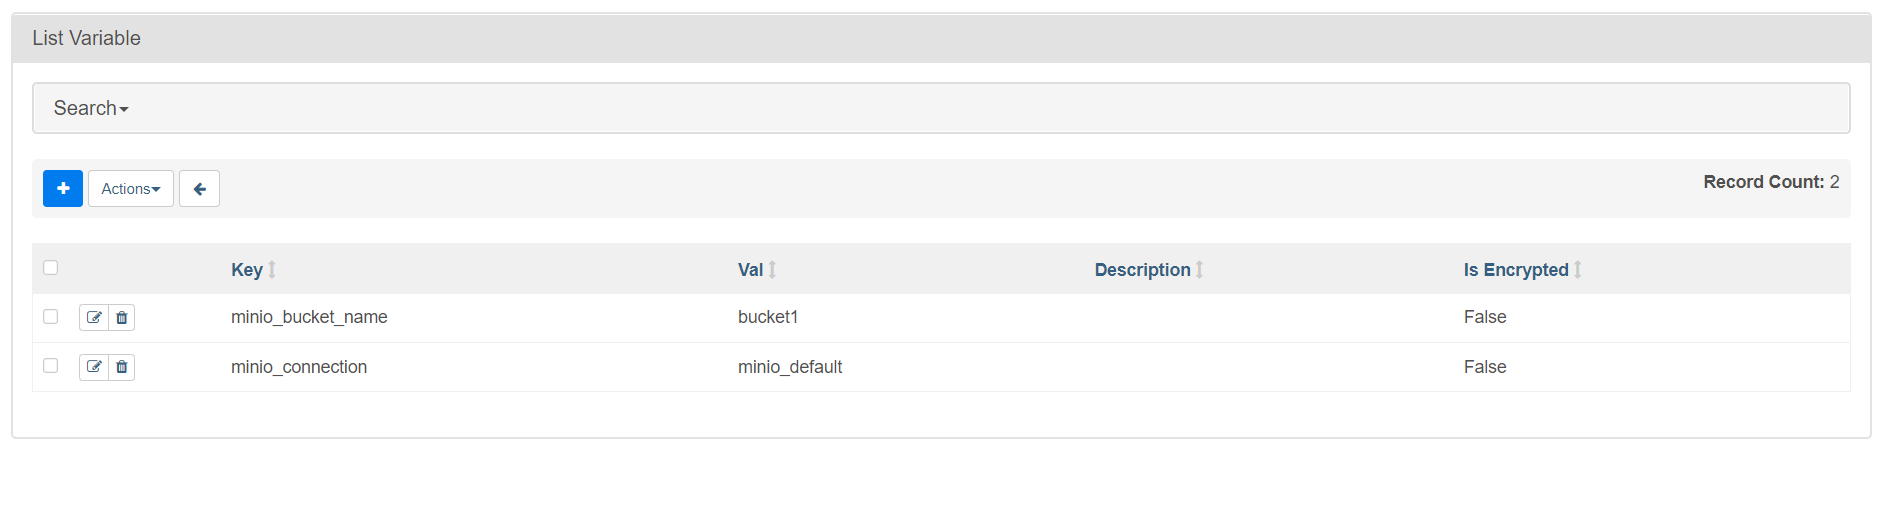
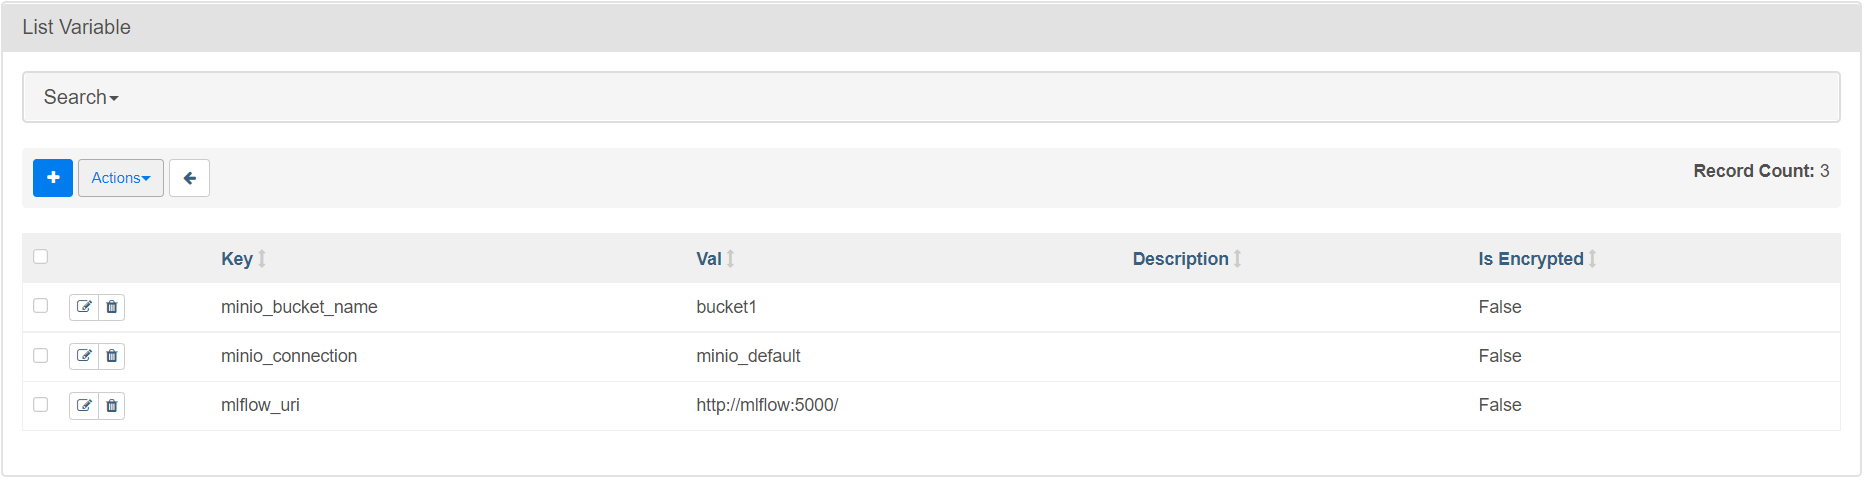
Добавлен модуль MlFlow для сброса в него метрик и артефактов.

diff --git a/dags/tasks/Sender.py b/dags/tasks/Sender.py
@@ -1,0 +1,47 @@
+import pandas as pd
+import os
+import mlflow
+from pandas import DataFrame
+
+from models.etl_model import ETL_Model
+from airflow.models import Variable
+from airflow.models import Connection
+
+
+# Создаём переменные окружения для подключения к Minio
+
+def create_endpoints():
+    connection = Connection().get_connection_from_secrets(Variable.get("minio_connection"))
+    os.environ['MLFLOW_S3_ENDPOINT_URL'] = f'http://{connection.host}:{connection.port}/'
+    os.environ['AWS_ACCESS_KEY_ID'] = connection.login
+    os.environ['AWS_SECRET_ACCESS_KEY'] = connection.password
+
+
+# Осуществляем оценку корректности обработки
+
+def make_assessment(data_frame: DataFrame, model: ETL_Model):
+    prediction = model.predict(None, data_frame)
+    return "SUCCESS" if prediction else "FILED"
+
+
+# Главный метод для осуществления отправки всех необходимых данных в MlFlow
+
+def send_metrics_to_mlflow():
+    create_endpoints()
+
+    model_name = "ETL_Model"
+
+    df = pd.read_csv("output.csv", delimiter=';')
+
+    mlflow_uri = Variable.get("mlflow_uri")
+    mlflow.set_tracking_uri(mlflow_uri)
+    mlflow.set_experiment("FIRST_ETL")
+    model = ETL_Model()
+
+    with mlflow.start_run():
+        mlflow.set_tag("etl", "My_First_ETL_Process")
+        mlflow.log_param('model_name', model_name)
+        mlflow.log_param("processing_csv_file", make_assessment(df, model))
+        mlflow.log_metric("total_rows", df.shape[0])
+        mlflow.log_artifact("output.csv")
+        mlflow.pyfunc.log_model(model_name, python_model=model)

diff --git a/dags/tasks/Extractor.py b/dags/tasks/Extractor.py
@@ -1,7 +1,9 @@
 from airflow.models import Variable
 from airflow.models import Connection
 from minio import Minio
-
+import mlflow
+from datetime import datetime
+from mlflow.pyfunc import PythonModel
 
 # Операция извлечения данных
 def extract_data():
@@ -16,3 +18,20 @@ def extract_data():
     )
     # Выгружаем оттуда объект
     client.fget_object(Variable.get("minio_bucket_name"), "input.csv", "input.csv")
+
+    # mlflow_uri = "http://mlflow:5000/"
+    # mlflow.set_tracking_uri(mlflow_uri)
+    # expname = "My_ETL_DAG"
+    #
+    #
+    #
+    # try:
+    #     mlflow.create_experiment(expname)
+    # except:
+    #     pass
+    # finally:
+    #     mlflow.set_experiment(expname)
+    #     mlflow.log_param("Start_Time", datetime.today())
+
+
+

diff --git a/dags/ETL_Dag.py b/dags/ETL_Dag.py
@@ -5,6 +5,8 @@ from airflow.utils.dates import days_ago
 from tasks.Extractor import extract_data
 from tasks.Transformer import transform_data
 from tasks.Loader import load_data
+from tasks.Sender import send_metrics_to_mlflow
+
 
 args = {
     'owner': 'User',
@@ -38,6 +40,12 @@ with DAG(
         dag=etl_dag,
         task_id='load'
     )
+    # Закрепляем операцию отправки метрик в MlFlow в etl_dag
+    send_metric = PythonOperator(
+        python_callable=send_metrics_to_mlflow,
+        dag=etl_dag,
+        task_id='send'
+    )
 
 # Строим пайплайн для создания полноценного etl процесса в нашем DAG
-extract >> transform >> load
+extract >> transform >> load >> send_metric

diff --git a/dags/models/etl_model.py b/dags/models/etl_model.py
@@ -1,0 +1,14 @@
+from mlflow.pyfunc import PythonModel
+import pandas as pd
+
+
+class ETL_Model(PythonModel):
+    # Данный метод вычитывает csv файл, который был до обработки.
+    # После чего сравнивает его по количеству строк с файлом после обработки.
+
+    def predict(self, context, model_input) -> bool:
+        old_df = pd.read_csv("input.csv", delimiter=';', header=None)
+        old_df.columns = ['c1', 'c2', 'c3', 'c4', 'c5', 'c6', 'c7', 'c8', 'c9', 'c10', 'c11']
+        old_df_shape = old_df.dropna(subset=['c1']).shape
+
+        return model_input.shape == old_df_shape

diff --git a/dags/tasks/Loader.py b/dags/tasks/Loader.py
@@ -1,7 +1,8 @@
 from airflow.models import Variable
 from airflow.models import Connection
 from minio import Minio
-
+import mlflow
+from datetime import datetime
 
 # Операция загрузки обработанных данных
 def load_data():
@@ -21,3 +22,11 @@ def load_data():
         file_path="./output.csv",
         content_type='application/csv',
     )
+    # mlflow_uri = "http://mlflow:5000/"
+    # mlflow.set_tracking_uri(mlflow_uri)
+    # expname = "My_ETL_DAG"
+    # mlflow.set_experiment(expname)
+    # mlflow.log_param("Finish_Time", datetime.today())
+    # mlflow.log_artifact("output.csv",artifact_path="s3://mlflow/")
+
+    

diff --git a/README.md b/README.md
@@ -1,16 +1,27 @@
 # Структура
 
 + dags - Папка связанная с контейнером при помощи volume. Именно там создаём DAG's при помощи python
-  + tasks - Папка в которой содержатся файлы с логикой каждой операции ETL процесса
+  + models - Папка в которой хранятся модели для MlFlow
+  + tasks - Папка в которой содержатся файлы с логикой каждой операции ETL процесса.
+  + ETL_Dag.py - Тот самый Dag что будет выполнять ETL_Process
+
 + data - Папка с примером json файла который будет обрабатываться в DAG
-+ docker_airflow_settings - Папка где хранится всё необходимое для создания контейнеров
++ docker_flow_settings - Папка где хранится всё необходимое для создания контейнеров
+  + airflow
     + airflow.cfg - Файл конфигурации для AirFlow, который прикладывается в контейнер
-    + docker-compose.yml - Обыкновенный compose-файл по которому поднимается ряд контейнеров описанных в нём
     + Dockerfile - Основной файл по которому создаётся образ
-    + requirements.txt - Файл со списком библиотек которые будут загружены в среду python при его сборке, при
+    + requirements.txt - Список библиотек, которые будут загружены в среду python при сборке контейнера с airflow, при
       необходимости просто добавьте нужную и соберите контейнер и она будет внутри python. AirFlow не будет ругаться на
       их отсутствие.
-    + start_docker_image.bat - Скрипт запуска контейнеров
+  + mlflow
+    + Dockerfile - Основной файл по которому создаётся образ
+    + requirements.txt - Список библиотек, которые будут загружены в среду python при сборке контейнера с airflow, при
+      необходимости просто добавьте нужную и соберите контейнер и она будет внутри python. AirFlow не будет ругаться на
+      их отсутствие.
+    + run_mlflow.sh - Скрипт запуска mlflow server
+  + docker-compose.yml - Обыкновенный compose-файл по которому поднимается ряд контейнеров описанных в нём
+  + flow.env - файл с переменными среды, которые записываются в систему при сборке контейнера
+  + start_docker_image.bat - Скрипт сборки докер контейнеров
 + readme_images - Папка с изображениями из README
 + README.md - Важная информация
 
@@ -28,6 +39,7 @@
     + minio_access_key - minio
     + minio_secret_key - miniominio
     + minio_bucket_name - bucket1
+    + minio_mlflow_bucket_name - mlflow
     + minio_connection - minio_default
 
 # Подготовка перед запуском DAG
@@ -42,11 +54,22 @@
 * Логин - minio_access_key из данных для подключения
 * Пароль - minio_secret_key из данных для подключения
 
-После чего создать бакет:
+Сначала создадим бакет для хранения артефактов MlFlow:
+
+* Он называется - minio_mlflow_bucket_name из данных для подключения
+
+Видя подобный экран:
+
+![img1.png](readme_images/MlFlowMinioBucket.png)
+
+Нажимаем Create Bucket и наш первый бакет создан.
+
+
+Теперь создадим бакет в котором будет храниться файл с нашими данными:
 
 * Его имя - minio_bucket_name из данных для подключения
 
-И добавить туда файл:
+И добавим туда файл:
 
 * input.csv из папки data
 
@@ -74,4 +97,18 @@
   ![img_2.png](readme_images/MinioVariablesAirFlow.png)
 * Это будут переменные с именем бакета - minio_bucket_name и именем нашего подключения minio_connection
 
-После этого можем запускать DAG
+После этого можем запускать DAG. 
+При успешном выполнении DAG в бакете - bucket1, появится файл output.csv.
+Так же в MlFlow по ссылке http://localhost:5000, должен появится эксперимент c именем FIRST_ETL. 
+Он выглядит вот так:
+
+![img.png](readme_images/MlFlowResult.png)
+
+Внутри эксперимента можно увидеть различные метрики и теги, которые получились в ходе MlFlow эксперимента.
+Так же внутри него лежит артефакт с классическими для MlFlow файлами и обработанным файлом output.csv:
+
+![img.png](readme_images/MlFlowExperimentExample.png)
+
+Сам артефакт хранится в Minio в бакете minio_mlflow_bucket_name из данных для подключения:
+
+![img.png](readme_images/MinioMlflowExperiment.png)
